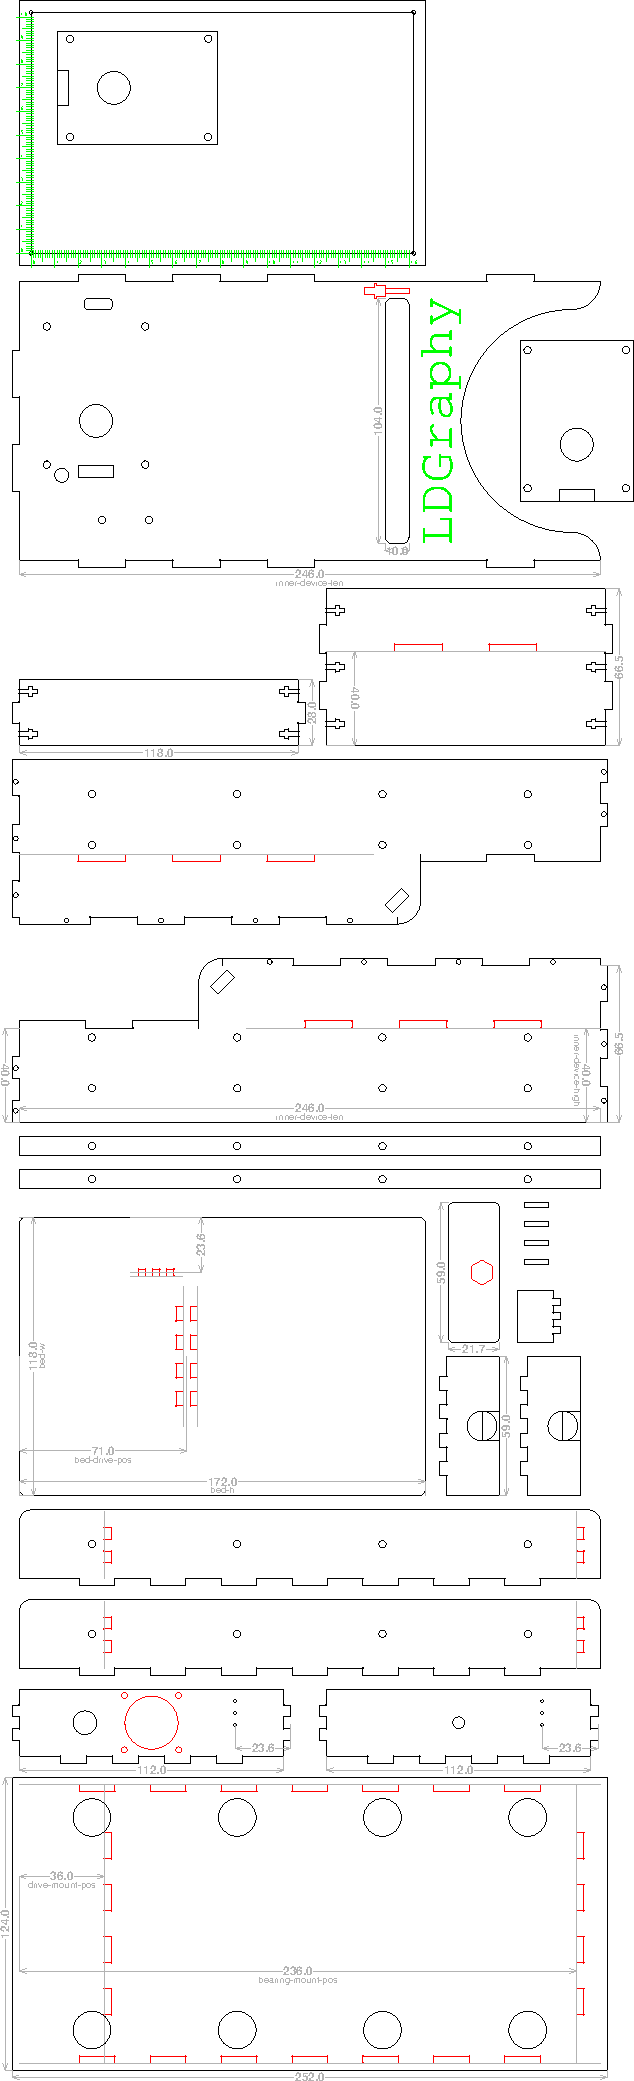
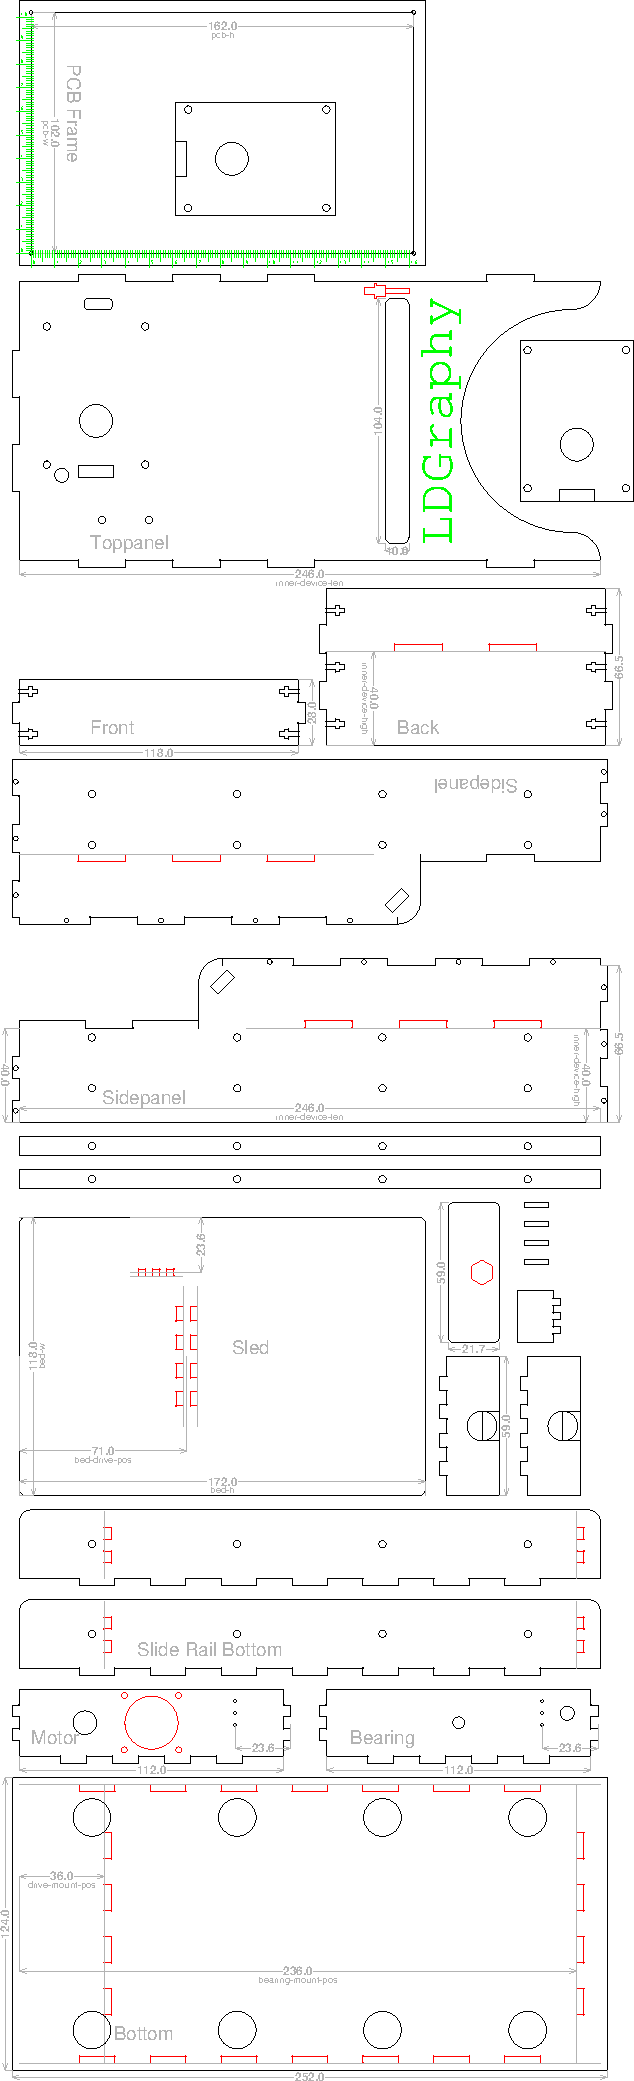
o Add description title of sub-parts o Add wire-management hole for switch.

diff --git a/hardware/README.md b/hardware/README.md
@@ -25,6 +25,7 @@ set-up in the laser cutter:
   * the 'black layer'. Cut with outward kerf correction (laser cuts outside).
   * the 'red layer'. Cut with inside kerf correction (laser cuts inside).
   * the 'green layer'. Set to engraving.
+  * the 'gray layer' (if `/print-measures` true). Don't cut. Just FYI with measurements and help-lines.
 
 ### Note
 This is pretty much work in progress, the drive and angle of laser mount etc.
